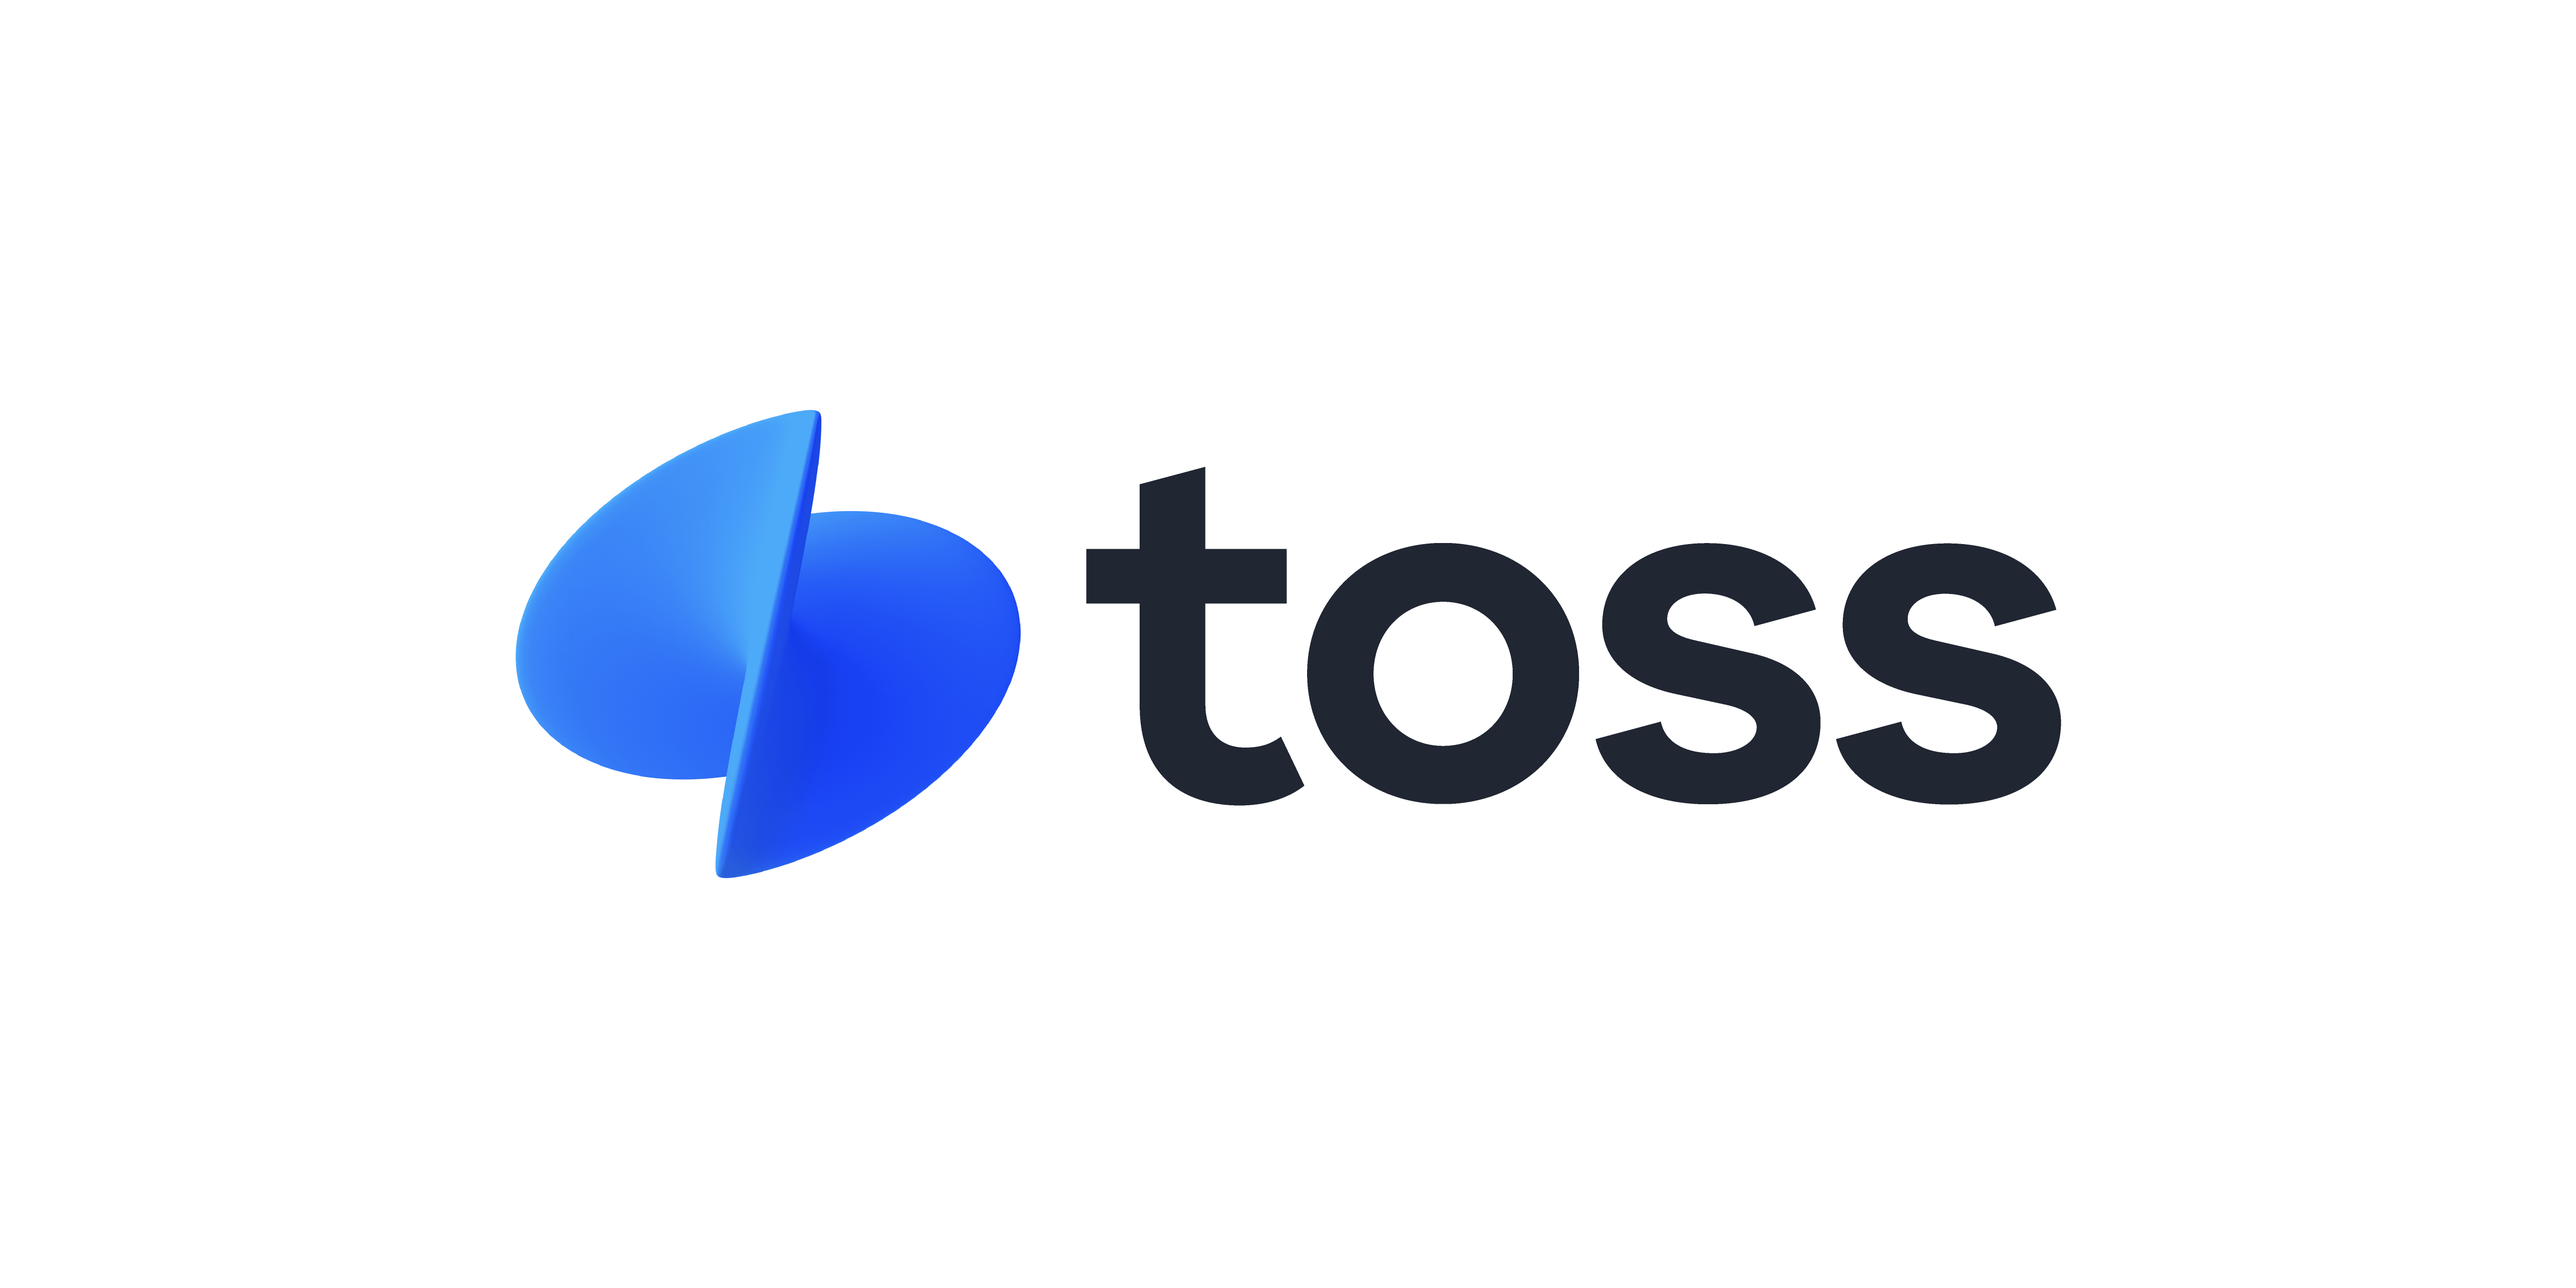
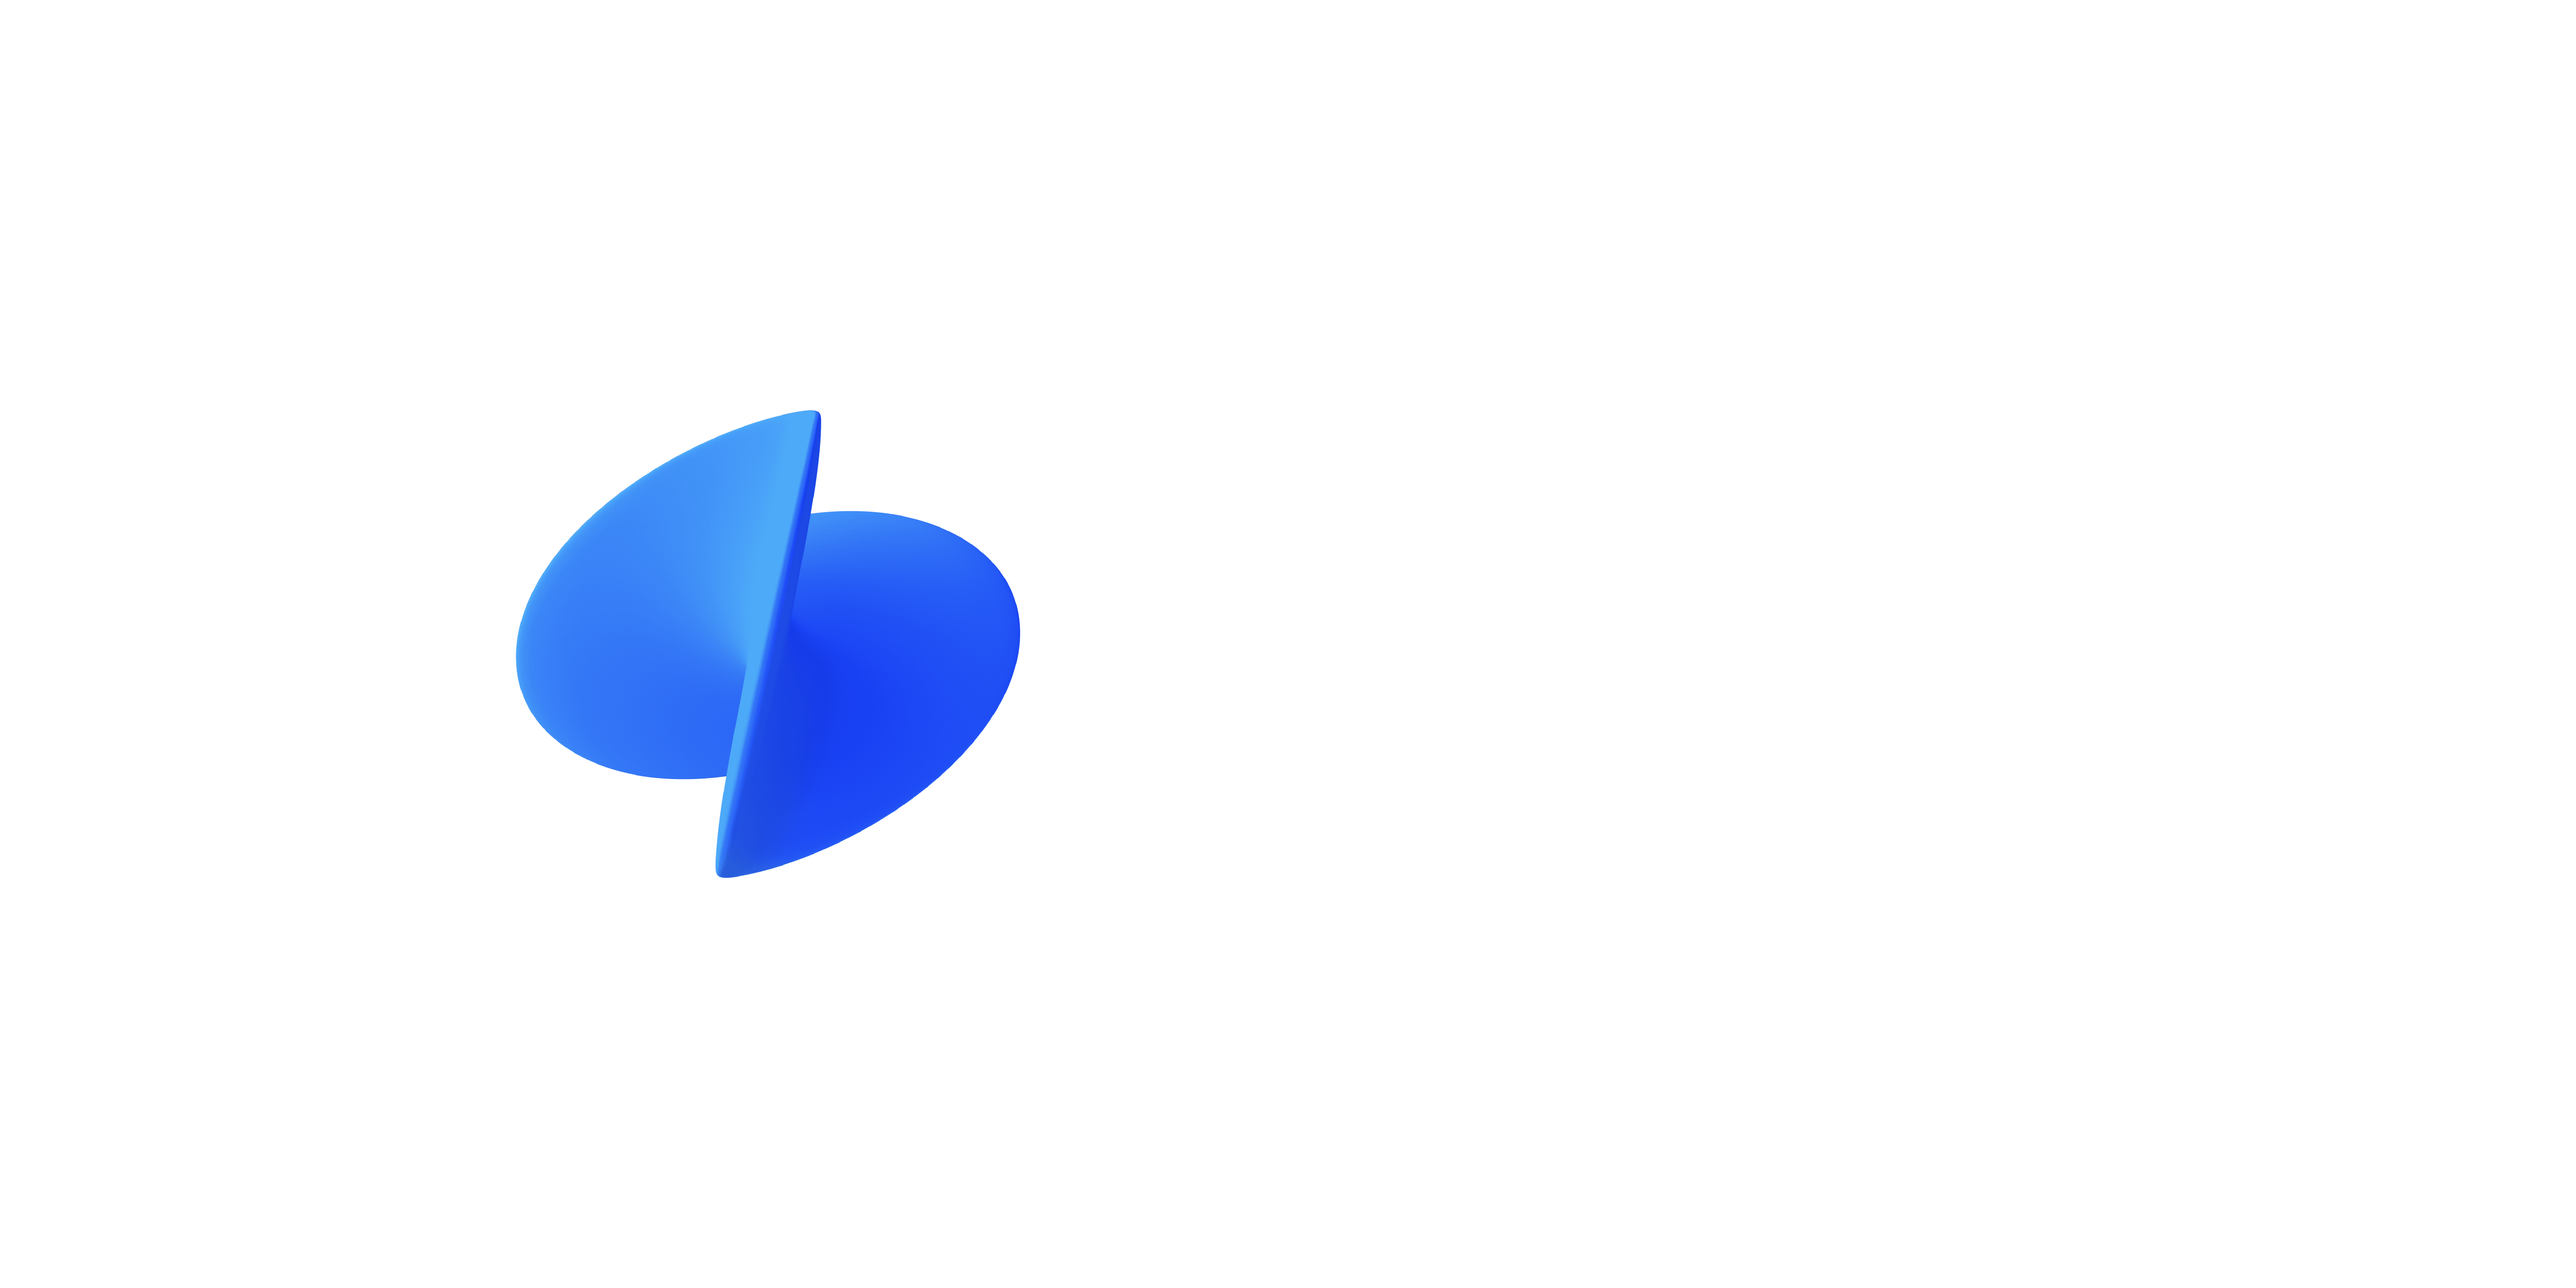
페이 css 수정

Changed region(s): [[0.4056, 0.3432, 0.8112, 0.624]]

diff --git a/kiosk-customer/src/styles/PaymentMethodModal.css b/kiosk-customer/src/styles/PaymentMethodModal.css
@@ -64,7 +64,7 @@
 
 /* 토스페이: 버튼 전체를 이미지로 채움 (배경/텍스트가 이미 이미지 안에 포함됨) */
 .payment-method-toss {
-  background: #0064ff;
+  background: #202632;
   padding: 0;
   overflow: hidden;
 }
@@ -94,16 +94,16 @@
 
 /* 토스페이 이미지만 살짝 축소 */
 .payment-method-toss-img {
-  width: 55%;
-  height: 55%;
-  margin: 10% auto;
+  width: 90%;
+  height: 90%;
+  margin: 5% auto;
 }
 
 /* 네이버페이 이미지만 살짝 축소 */
 .payment-method-naver-img {
-  width: 60%;
-  height: 60%;
-  margin: 10% auto;
+  width: 75%;
+  height: 75%;
+  margin: 5% auto;
 }
 
 /* 카카오페이 이미지만 살짝 축소 */
